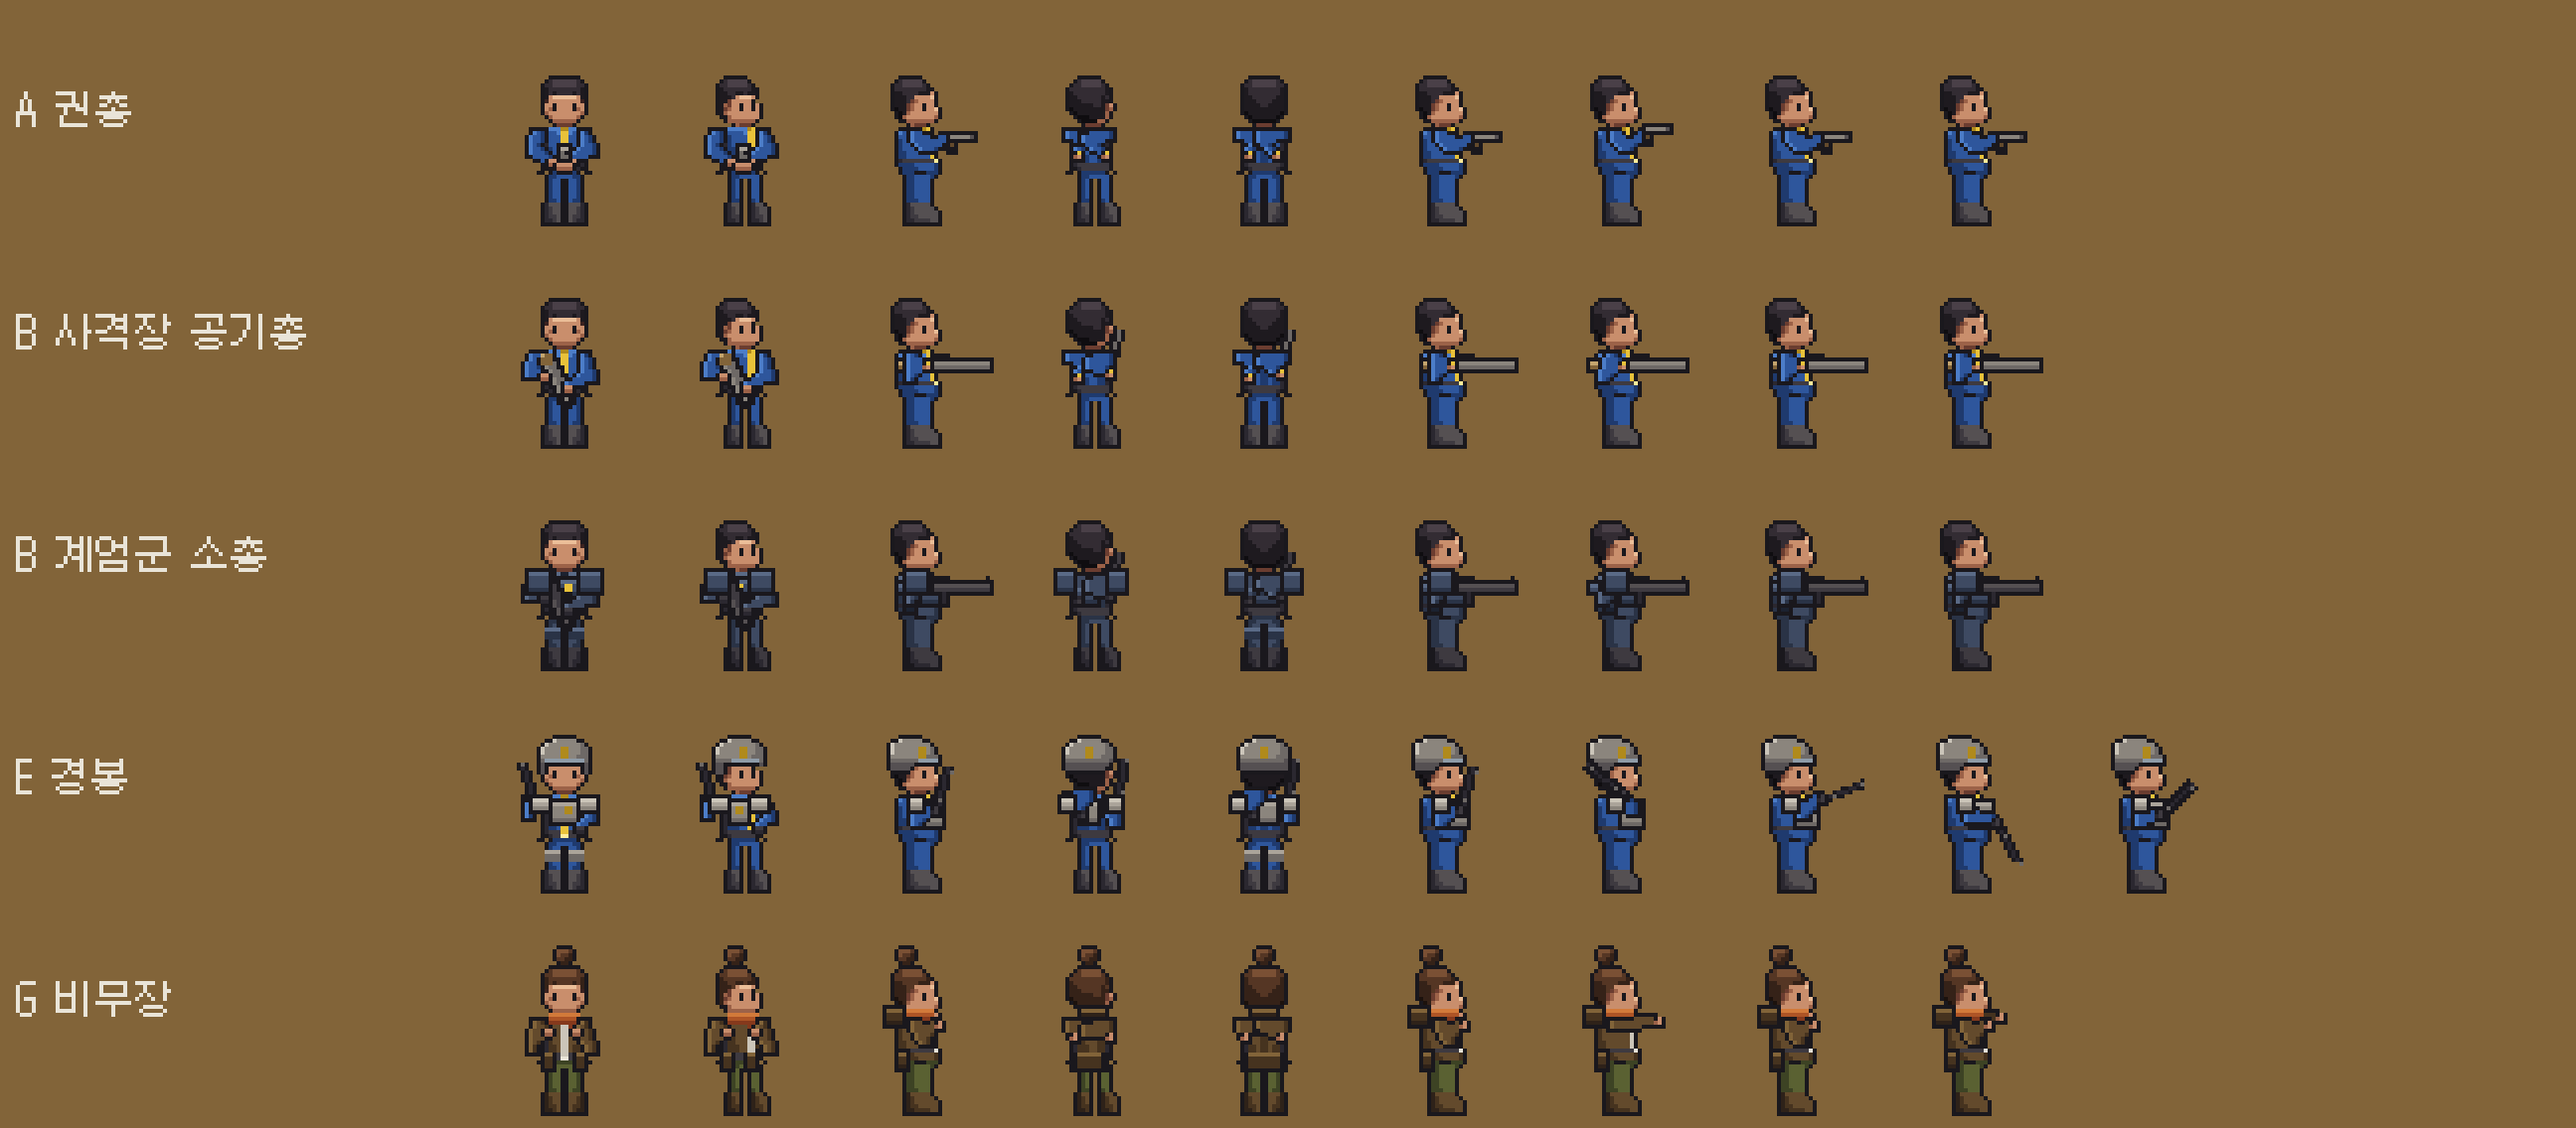
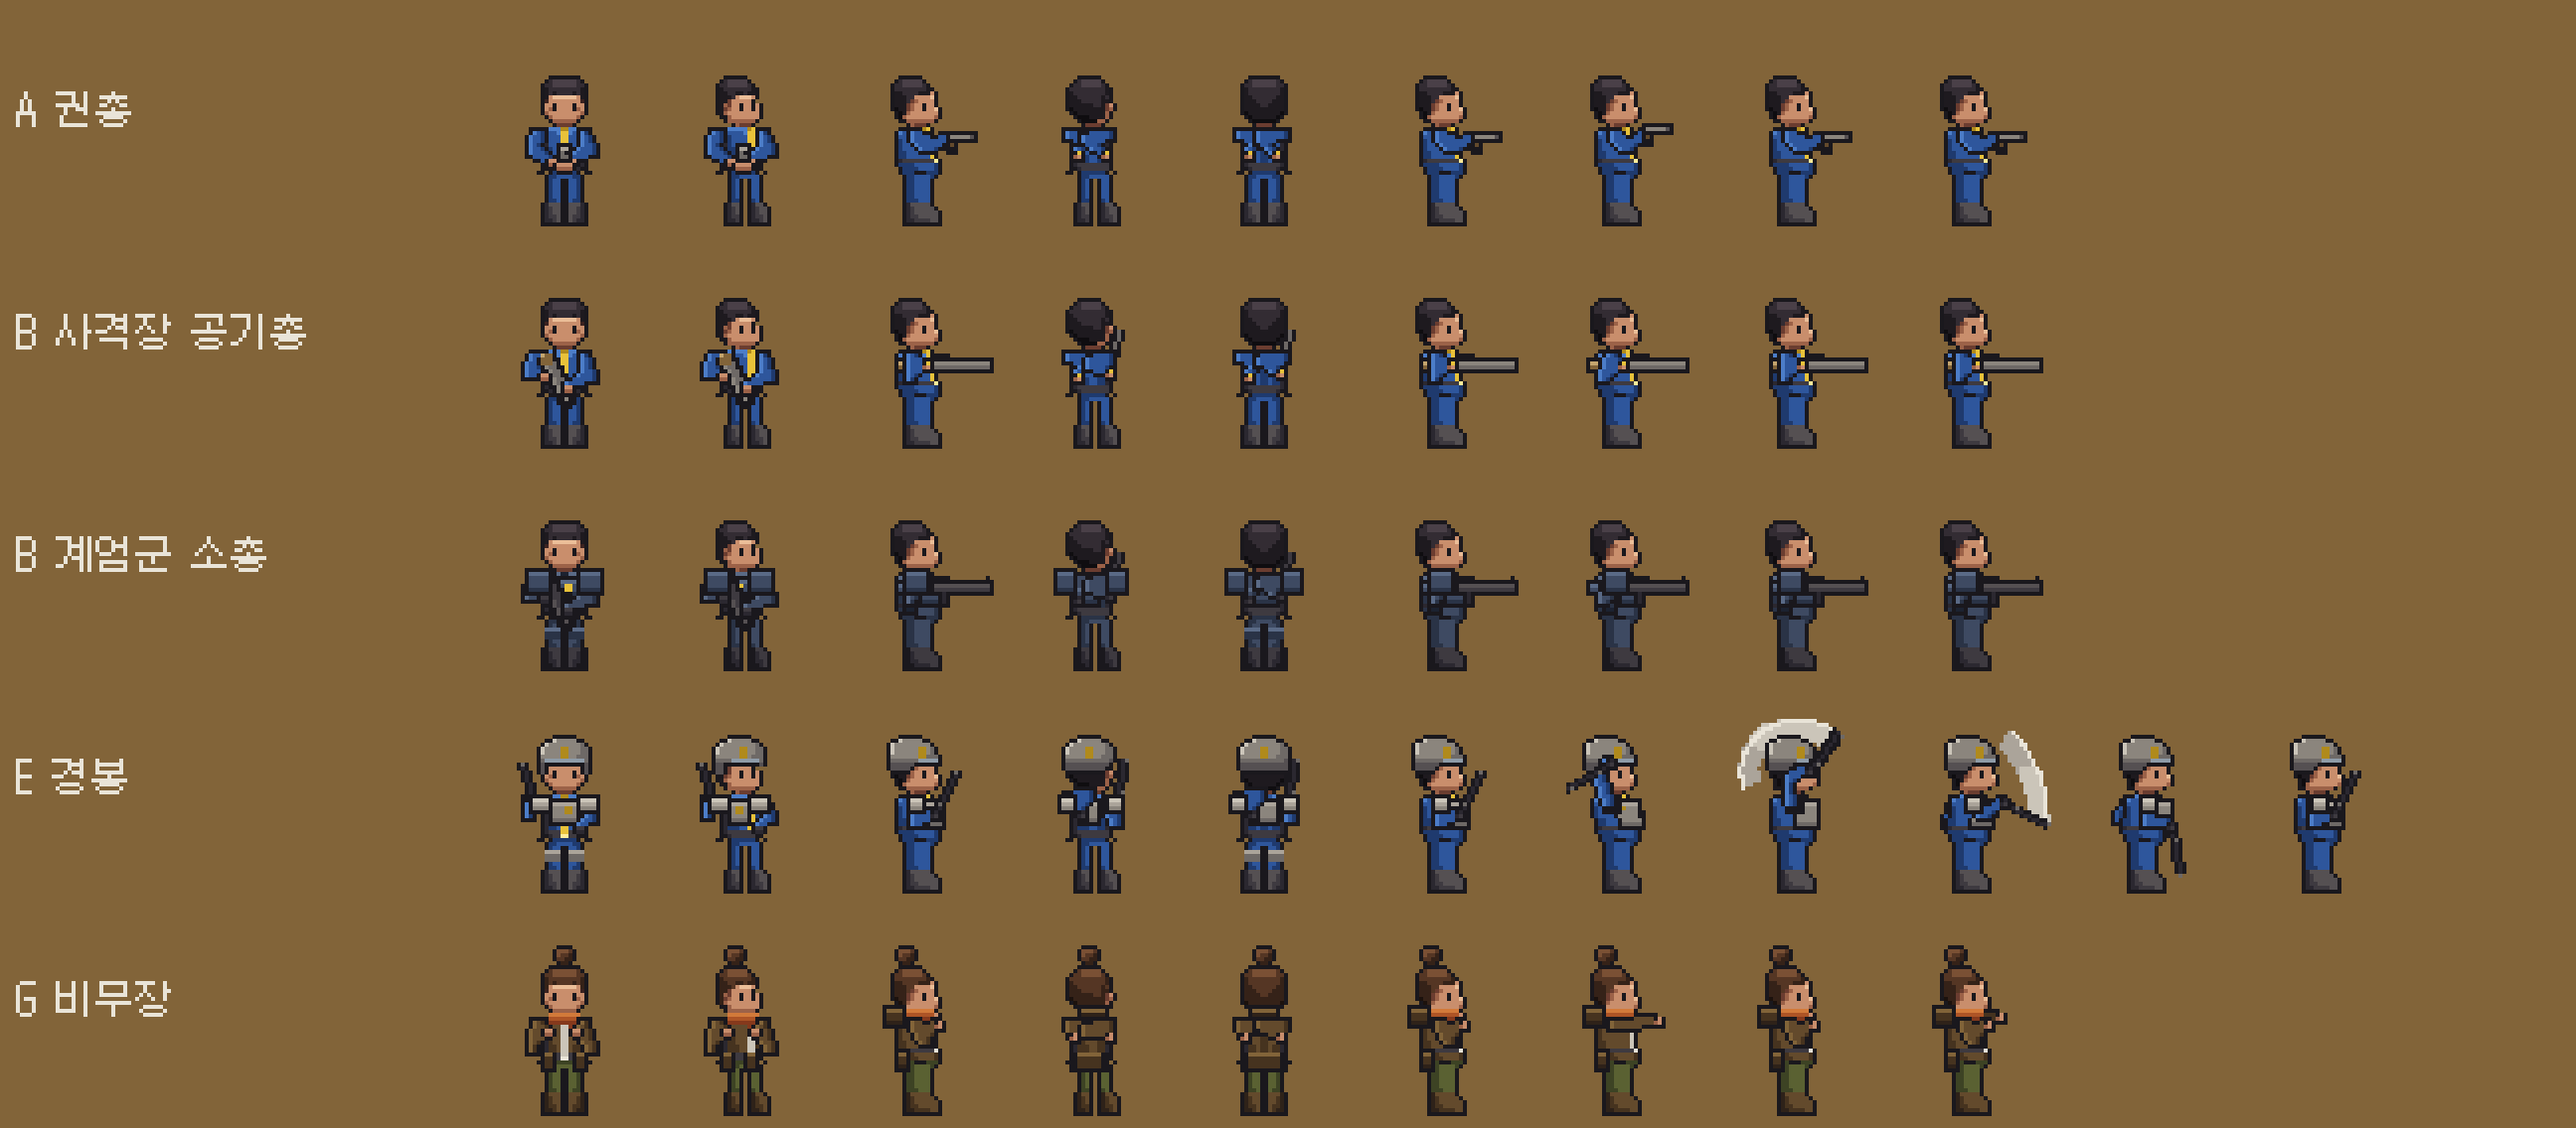
경봉 휘두르기 재작업: 머리 위 젖히기·호·타격·마무리, 궤적 잔상
- 측면: 준비(가슴 높이) → 머리 위로 젖힘(몸 뒤로 1px) → 앞으로 호 →
  타격(몸 앞으로 2px) → 마무리 → 복귀 6프레임. 팔이 어깨보다 올라가면
  패드 위로 팔을 그림.
- 휘두른 경로를 지나간 몽둥이 끝 띠로 채우는 잔상(이펙트 레이어 미리
  보기)을 몸 뒤에 그림. 정면 내려치기에도 같은 잔상.
- 14_baton_swing(_x5.png, .gif) 미리보기 추가.

Claude-Session: https://claude.ai/code/session_01AB2Pu8KtgEfTfn2XzBJpW9

Changed region(s): [[0.75, 0.647, 0.9375, 0.8011], [0.5625, 0.6162, 0.7188, 0.7394], [0.3438, 0.6778, 0.375, 0.7086]]

diff --git a/art/tools/weapons.py b/art/tools/weapons.py
@@ -124,6 +124,26 @@ def long_gun(d, view, rear, front, kind, recoil=0):
         d.line([(fx, fy), (fx + 2, fy - 9)], fill=C(s["body"][1]), width=1)
 
 
+def smear(img, sh, hand, path, length=12):
+    """Swept area of the baton between the previous and the current pose: the in-between batons are
+    filled pale (P08) with a bright tip edge (P09), drawn under the real baton (FX preview, SD-16 §10)."""
+    d = ImageDraw.Draw(img)
+    (h0, a0), (h1, a1) = path
+    steps = max(10, int(abs(a1 - a0) / 3))
+    tips = []
+    for i in range(steps):                          # stop short of the current pose (the baton covers it)
+        t = i / steps
+        hx = h0[0] + (h1[0] - h0[0]) * t
+        hy = h0[1] + (h1[1] - h0[1]) * t
+        a = math.radians(a0 + (a1 - a0) * t)
+        base = (hx + (length - 4) * math.cos(a), hy + (length - 4) * math.sin(a))
+        tip = (hx + length * math.cos(a), hy + length * math.sin(a))
+        d.line([base, tip], fill=C("P08" if t > 0.35 else "P07"), width=2)
+        tips.append(tip)
+    for p, q in zip(tips, tips[1:]):
+        d.line([p, q], fill=C("P09"), width=1)
+
+
 def baton(d, hand, angle_deg, length=11):
     """Baton from the fist along angle (0 = east, -90 = up)."""
     s = SKINS["baton"]
@@ -147,10 +167,15 @@ def poses(weapon, view):
         if weapon in ("airgun", "rifle"):
             return [dict(h=((35, 40), (42, 40)), w=(weapon, 0)), dict(h=((34, 40), (41, 40)), w=(weapon, 1)),
                     dict(h=((35, 40), (42, 40)), w=(weapon, 0)), dict(h=((35, 40), (42, 40)), w=(weapon, 0))]
-        if weapon == "baton":   # ready, wind-up, swing, follow-through, recover
-            return [dict(h=((37, 40), (35, 42)), w=("baton", -70)), dict(h=((34, 36), (35, 42)), w=("baton", -140)),
-                    dict(h=((40, 37), (35, 42)), w=("baton", -20)), dict(h=((40, 43), (35, 43)), w=("baton", 60)),
-                    dict(h=((37, 41), (35, 42)), w=("baton", -40))]
+        if weapon == "baton":   # ready, wind-up (overhead, lean back), arc, impact, follow-through, recover
+            return [dict(h=((37, 41), (37, 43)), w=("baton", -65), lean=0),
+                    dict(h=((31, 28), (38, 41)), w=("baton", 150), lean=-1, over=True),
+                    dict(h=((37, 30), (36, 43)), w=("baton", -50), lean=1, over=True,
+                         smear=(((31, 28), 150), ((37, 30), -50 + 360))),
+                    dict(h=((42, 38), (34, 44)), w=("baton", 25), lean=2,
+                         smear=(((37, 30), -50), ((42, 38), 25))),
+                    dict(h=((40, 44), (33, 44)), w=("baton", 80), lean=2),
+                    dict(h=((37, 41), (36, 43)), w=("baton", -65), lean=1)]
         if weapon == "fist":    # guard, jab, guard, straight
             return [dict(h=((38, 38), (37, 36)), w=None, fist=True), dict(h=((44, 37), (37, 36)), w=None, fist=True),
                     dict(h=((38, 38), (37, 36)), w=None, fist=True), dict(h=((38, 38), (43, 36)), w=None, fist=True)]
@@ -188,17 +213,34 @@ def compose(upper, view, frame, weapon):
     h0, h1 = frame["h"]
     wd = ImageDraw.Draw(layer_front)
     if view == "E":
+        lean = frame.get("lean", 0)
+        if lean:
+            upper = R.shear(upper, lean)
+            sh_l = (sh_l[0] + lean // 2 + (1 if lean > 0 else 0), sh_l[1])
+            sh_r = (sh_r[0] + lean // 2, sh_r[1])
         draw_arm(layer_back, sh_r, h1, near=False, bend=-1, fist=fist)        # far support arm
         if frame["w"] and frame["w"][0] in ("airgun", "rifle"):
             long_gun(wd, "E", h0, h1, frame["w"][0], frame["w"][1])
-        hand = draw_arm(layer_front, sh_l, h0, near=True, bend=-1, fist=fist)
+        if frame.get("smear"):                      # swing trail behind the body (FX preview, SD-16 §10)
+            smear(out, sh_l, h0, frame["smear"])
+        out.alpha_composite(layer_back); out.alpha_composite(upper)
+        if frame.get("over"):                       # arm raised above the shoulder: pad first, arm over it
+            pads(out, [sh_l])
+        hand = draw_arm(layer_front, sh_l, h0, near=True, bend=-1 if not frame.get("over") else 1, fist=fist)
         if frame["w"] and frame["w"][0] == "pistol":
             pistol(wd, "E", hand, frame["w"][1])
         if frame["w"] and frame["w"][0] == "baton":
-            baton(wd, hand, frame["w"][1])
-            draw_arm(layer_front, sh_l, h0, near=True, bend=-1, fist=True)  # fist over the grip
-        out.alpha_composite(layer_back); out.alpha_composite(upper); out.alpha_composite(layer_front)
-        pads(out, [sh_l])
+            baton(wd, hand, frame["w"][1], length=12)
+            fx, fy = hand
+            for dx in (-1, 0, 1):                   # fist wrapped round the grip, over the baton
+                for dy in (-1, 0, 1):
+                    layer_front.putpixel((fx + dx, fy + dy), C("P01"))
+            skin = ("P02", "P03") if R.FIT["gloves"] else ("P40", "P41")
+            layer_front.putpixel((fx, fy), C(skin[1])); layer_front.putpixel((fx - 1, fy), C(skin[0]))
+            layer_front.putpixel((fx, fy - 1), C(skin[0]))
+        out.alpha_composite(layer_front)
+        if not frame.get("over"):
+            pads(out, [sh_l])
         return out
     behind = frame.get("behind", False)
     tgt = layer_back if behind else layer_front
@@ -247,7 +289,8 @@ FRONT = {
     "baton": [
         dict(L=((26, 38), (23, 41), (24, 37)), R=((37, 38), (39, 42), (36, 45)), baton=((24, 37), (21, 28))),
         dict(L=((26, 38), (23, 37), (25, 33)), R=((37, 38), (39, 42), (36, 45)), baton=((25, 33), (32, 27))),
-        dict(L=((26, 38), (25, 42), (30, 46)), R=((37, 38), (39, 42), (36, 45)), baton=((30, 46), (33, 52))),
+        dict(L=((26, 38), (25, 42), (30, 46)), R=((37, 38), (39, 42), (36, 45)), baton=((30, 46), (33, 52)),
+             smear=(((25, 33), -40), ((30, 46), 63))),
     ],
     "fist": [     # guard: forearms up, fists at the chin
         dict(L=((26, 38), (24, 44), (28, 40)), R=((37, 38), (39, 44), (35, 40)), fists=True),
@@ -308,6 +351,10 @@ def front_compose(upper, view, f, weapon):
         d.rectangle([gx, gy, gx + 1, gy + 2], fill=C("P05")); d.line([gx, gy, gx + 1, gy], fill=C("P07"))
         d.point((gx + 1, gy + 1), fill=C("P01"))
     if "baton" in pose:
+        if "smear" in pose:
+            (h0, a0), (h1, a1) = pose["smear"]
+            smear(layer, None, None, (((h0[0] + dx, h0[1]), a0), ((h1[0] + dx, h1[1]), a1)), length=9)
+            jointed_arm(layer, L, R.FIT["sleeve"])
         a, b = mv(pose["baton"])
         d.line([a, b], fill=C("P01"), width=3)
         d.line([a, b], fill=C("P02"), width=1)
